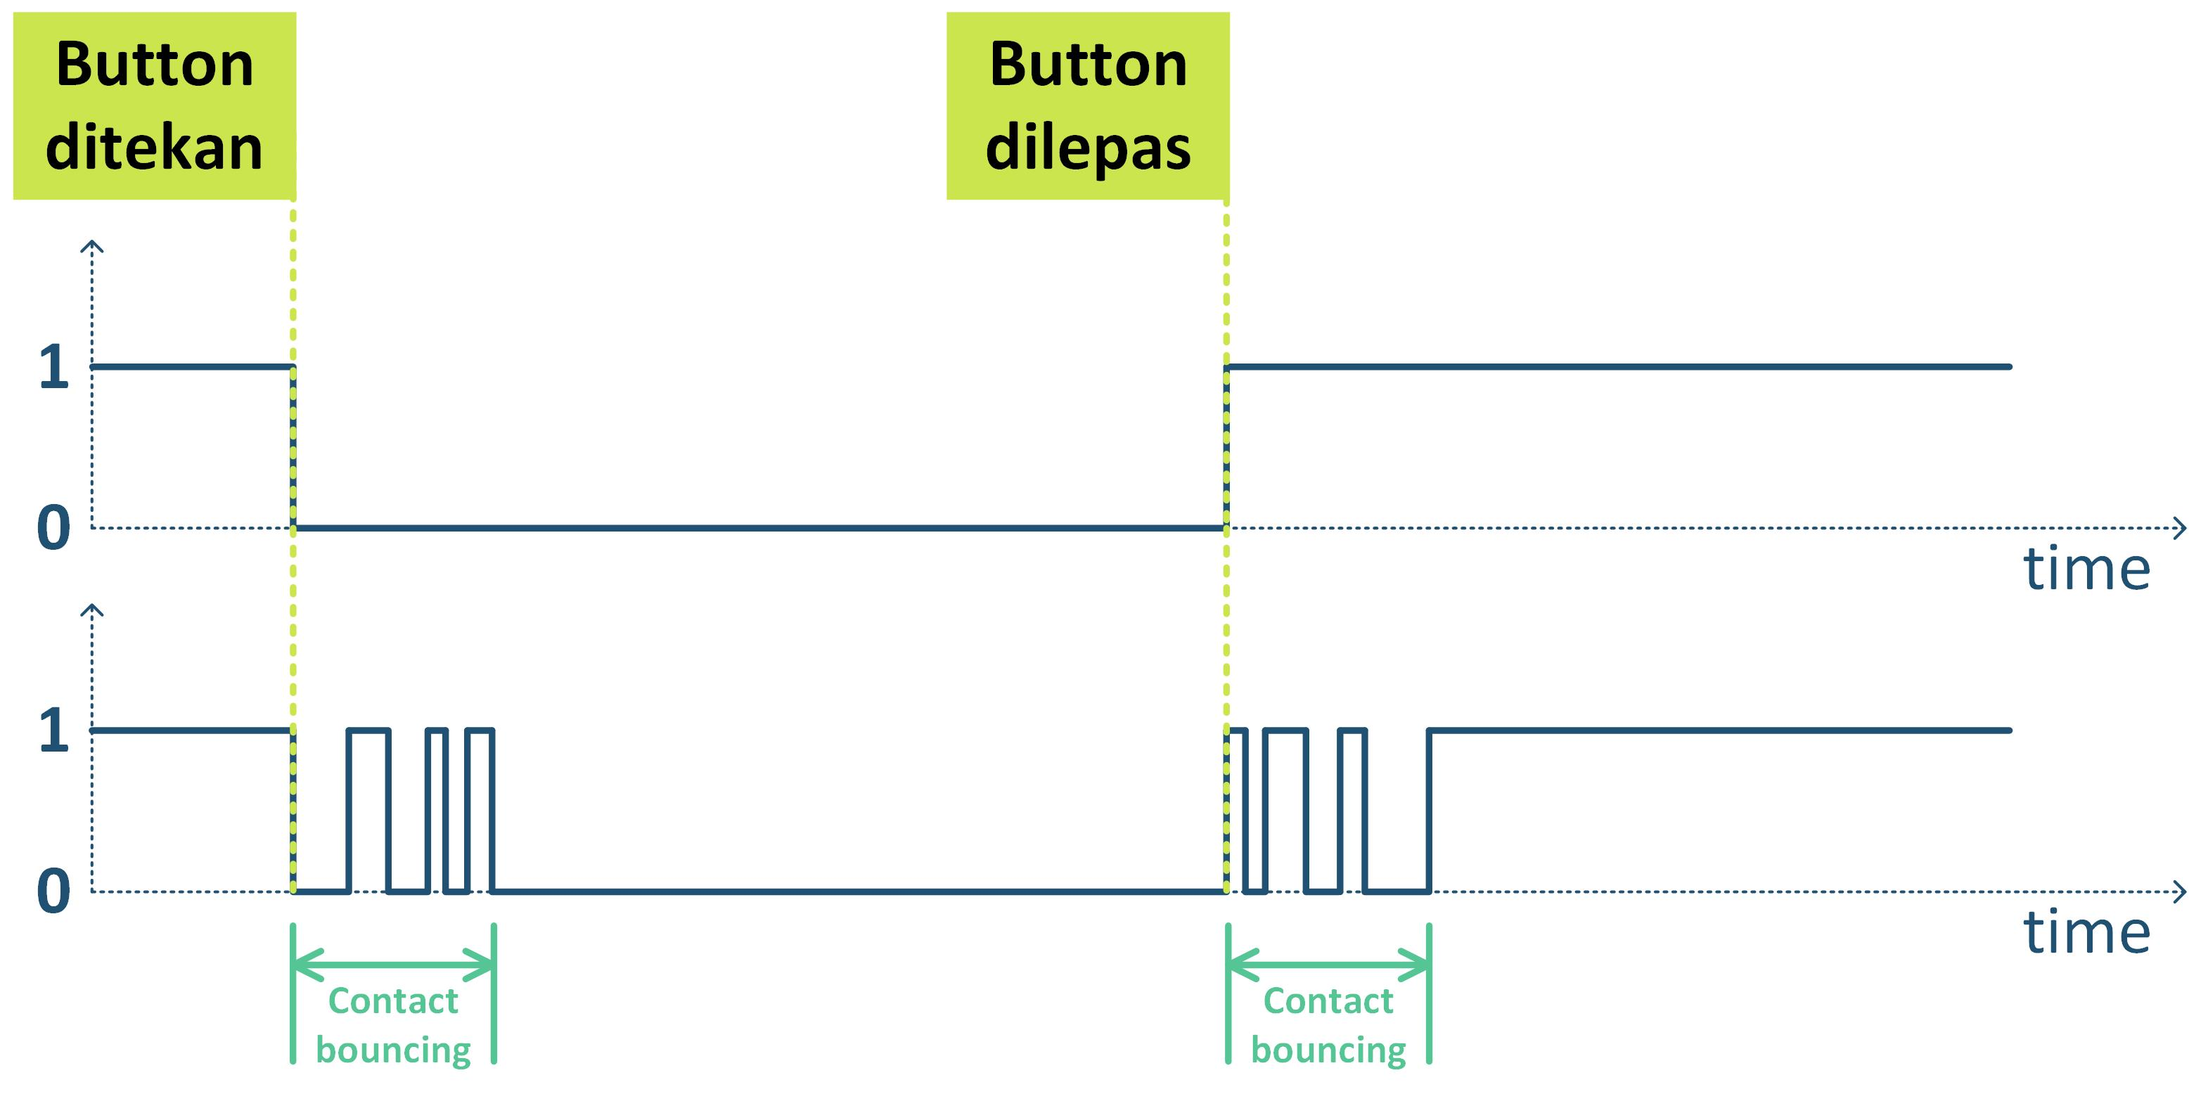
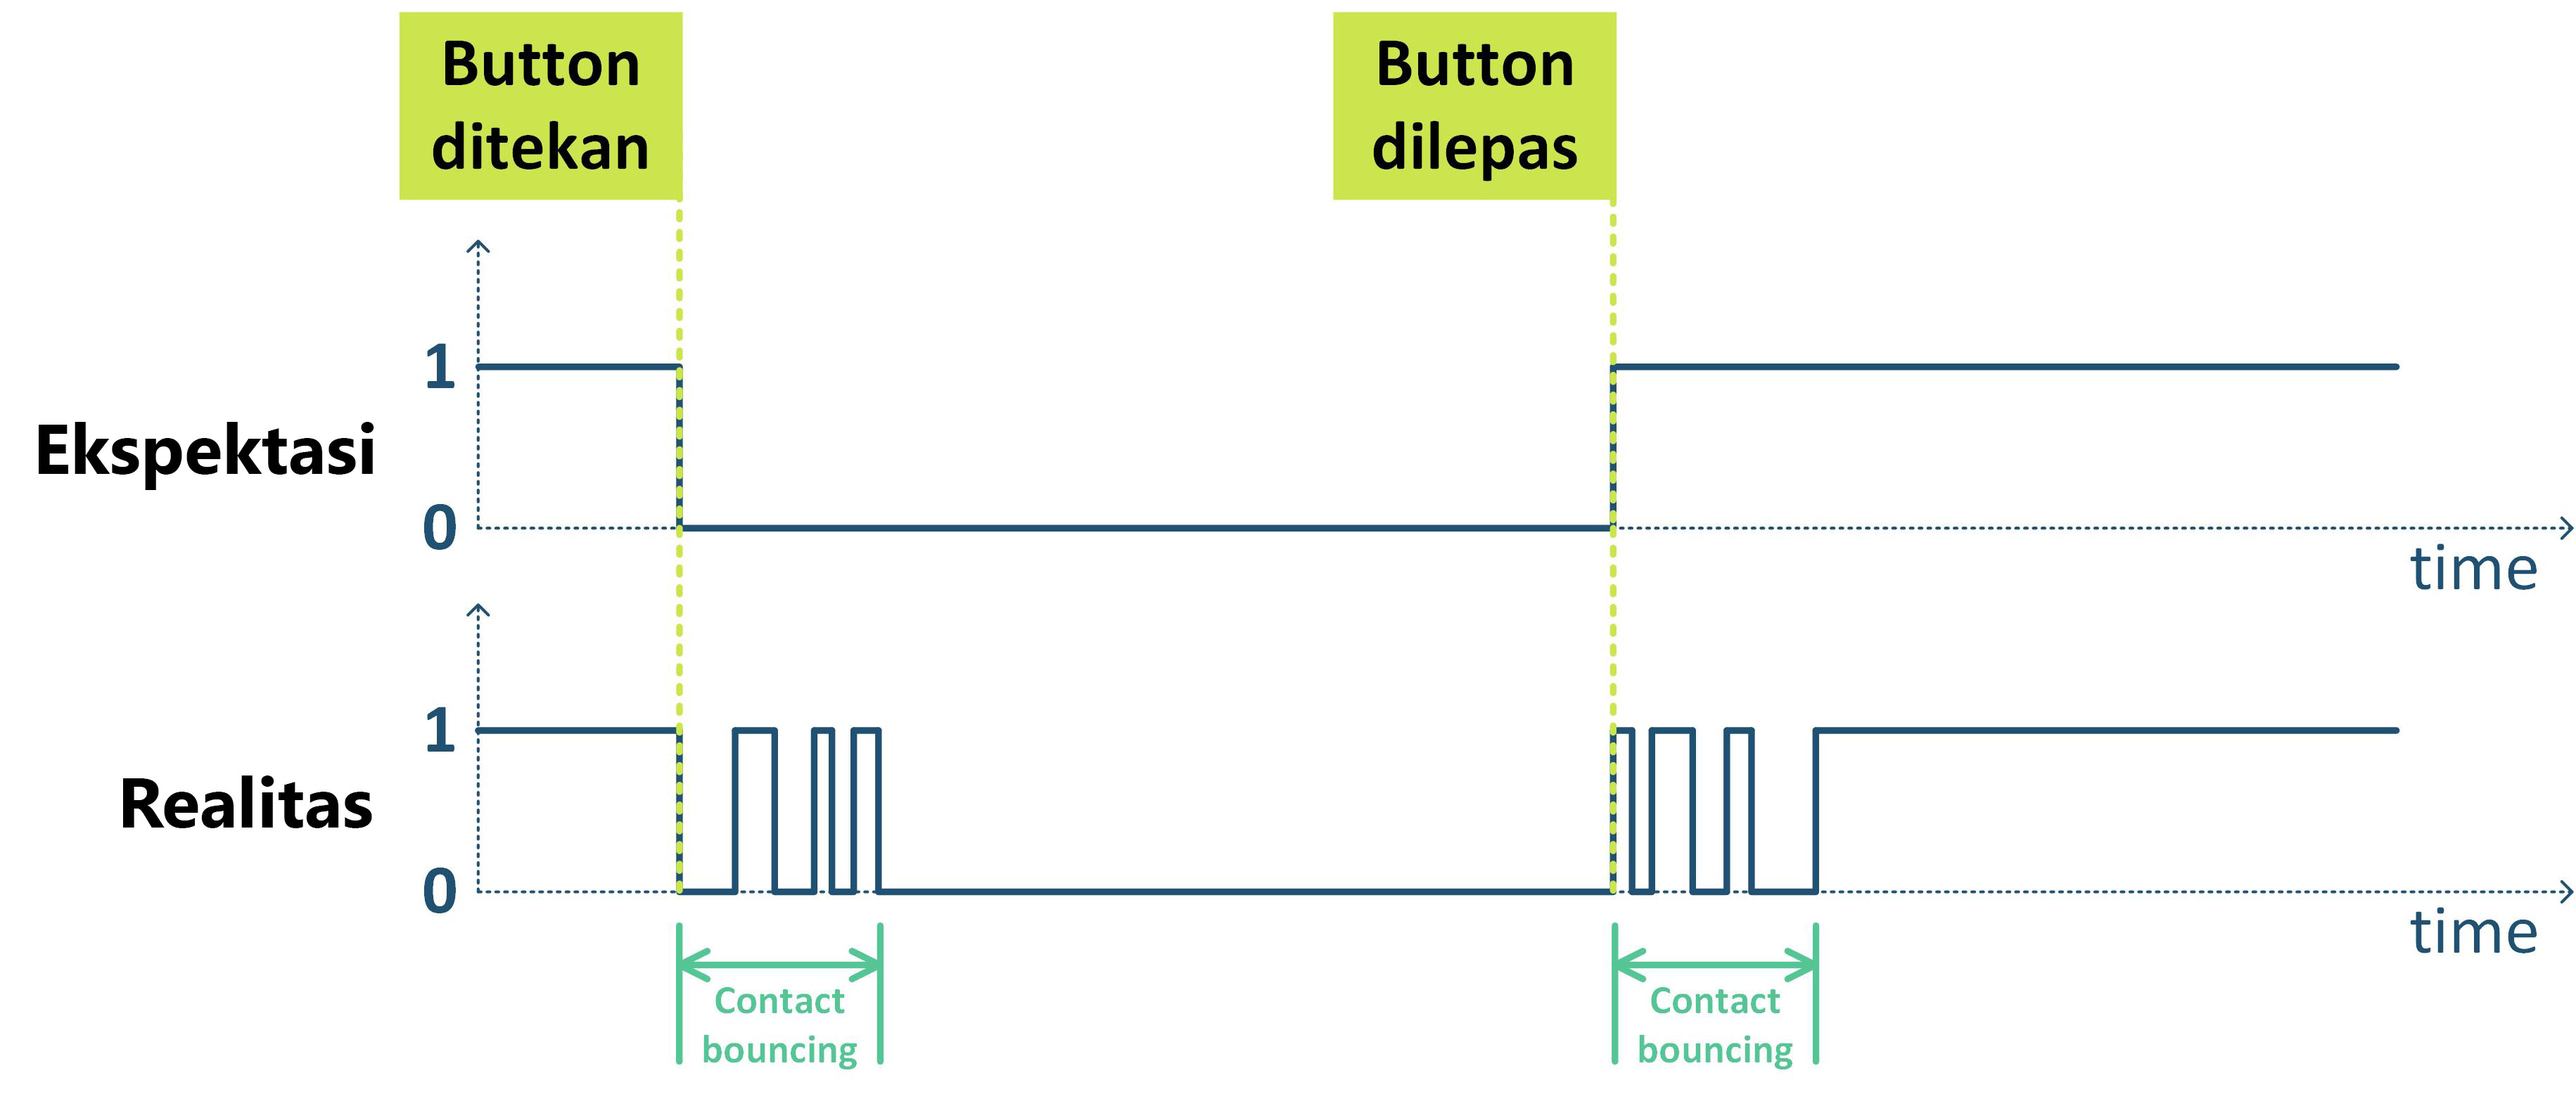
Added debouncing

diff --git a/pemrograman_arduino/debouncing/index.html b/pemrograman_arduino/debouncing/index.html
@@ -1,0 +1,220 @@
+<head>
+    <meta charset="utf-8" lang="en">
+    <link rel="icon" href="../../logo.png">
+    <style class="fallback">
+    body {
+        visibility: hidden;
+        font-family: 'Segoe UI', Tahoma, Geneva, Verdana, sans-serif;
+    }
+    </style>
+</head> 
+<body>
+    **Pembacaan Push Button dengan Button Debouncing**
+    **Instagram: [@klinikarduino](https://www.instagram.com/klinikarduino/)**
+    **by [Erwin Setiawan](https://yohanes-erwin.github.io/)**
+    
+    <center>**[Pemrograman Arduino](../index.html)**</center>
+
+    Apa itu Button Debouncing?
+    ===========================
+    Ketika kita menggunakan komponen push button atau switch mechanical, maka akan ada fenomena yang bernama button bounce.
+    Button bounce terjadi pada kontak fisik dari push button atau switch tersebut.
+    Hal ini terjadi karena kontak fisik dari push button atau switch terbuat dari metal sehingga memiliki elastisitas.
+    
+    Button bounce menyebabkan noise pada sinyal input untuk GPIO seperti pada gambar Figure [fig:button_bouncing].
+    Fenomena ini bisa terjadi selama beberapa micro sampai mili detik sampai nilai button tersebut stabil.
+    Noise ini dapat menyebabkan kesalahan pembacaan oleh GPIO terutama pada aplikasi pembacaan jumlah penekanan button.
+    Satu kali penekanan button oleh user, dapat terbaca berkali-kali oleh mikrokontroler.
+
+    ![Figure [fig:button_bouncing]: Fenomena button bouncing](button_bouncing.jpg width=700px)
+
+    Solusi untuk masalah ini disebut button debouncing.
+    Ada banyak metode debouncing yang bisa digunakan, mulai dari debouncing dengan hardware sampai debouncing dengan software.
+    Pada tutorial ini akan dibahas mengenai debouncing dengan software.
+
+    Metode debouncing dengan software dilakukan dengan menggunakan timer untuk menunggu sampai nilai GPIO stabil, kemudian nilai tersebut yang akan dibaca.
+    Proses debouncing ini digambarkan pada Figure [fig:debouncing].
+
+    ![Figure [fig:debouncing]: Metode debouncing untuk pembacaan button dengan timer](debouncing.jpg width=700px)
+
+    Contoh Program
+    ===========================
+    Pada contoh program ini, kita akan mempelajari dua kasus pembacaan push button.
+    Pembacaan pada program pertama dilakukan tanpa debouncing.
+    Pembacaan pada program kedua dilakukan dengan debouncing.
+
+    Untuk dapat menjalankan contoh program ini diperlukan beberapa komponen:
+    * Development board ESP32
+    * 1 buah push button
+    * 1 buah LED
+    * 1 buah resistor 100Ω
+    * Breadboard
+    * Kabel jumper
+
+    Ilustrasi koneksi dari komponen-komponen ke ESP32 ditampilkan pada Figure [fig:button-debouncing-bb].
+    Pin yang digunakan untuk menghubungkan komponen-komponen ke ESP32 ditampilkan pada Table [tab:wiring].
+    Push button dan LED tersebut menggunakan rangkaian active-low.
+
+    ![Figure [fig:button-debouncing-bb]: Rangkaian breadboard untuk program button debouncing](button-debouncing-bb.jpg width=400px)
+
+
+    Sensor/Aktuator Pin     | ESP32 Pin
+    ------------------------|------------------
+    Push button             | D12
+    LED merah               | D25
+    [Table [tab:wiring]: Koneksi ESP32]
+
+    Program Button Tanpa Debouncing
+    ===========================
+    Pada contoh progam ini, kita akan melakukan pembacaan push button tanpa debouncing.
+    Tujuan dari program ini yaitu setiap satu kali penekanan button, maka LED akan di-invert (nyala jadi mati dan mati jadi nyala).
+
+    Listing [lst:no_debouncing] menampilkan contoh program push button tanpa debouncing.
+    Berikut ini penjelasan cara kerja program tersebut:
+    * Pada **line 2-4**, kita mendefinisikan pin untuk LED dan push button.
+    * Pada **line 6-7**, kita membuat variable untuk menyimpan state dari push button dan LED.
+    * Pada **line 12-18**, kita melakukan inisialisasi GPIO untuk LED dan push button.
+    * Pada **line 24**, kita melakukan pembacaan push button kemudian disimpan pada variable `btn_state`.
+    * Pada **line 27-30**, kita melakukan pengecekan apakah nilai `btn_state` adalah LOW. Jika iya, maka kita akan meng-invert nilai LED.
+    * Pada **line 33**, kita menulis nilai LED dari variable `led_state` ke GPIO LED.
+
+    ~~~~~~~~~~~~~~~~~~~~~~~~~~~~~~~~~~~ C linenumbers
+    // LED pin
+    #define RED_LED_PIN     25
+    // Button pin
+    #define BTNPIN          12
+
+    int btn_state;
+    int led_state = HIGH;
+
+    void setup()
+    {
+      // Konfigurasi GPIO pin sebagai output untuk LED
+      pinMode(RED_LED_PIN, OUTPUT);
+    
+      // Set nilai LED ke kondisi off
+      digitalWrite(RED_LED_PIN, HIGH);
+    
+      // Konfigurasi GPIO pin sebagai input pull-up untuk button
+      pinMode(BTNPIN, INPUT_PULLUP);
+    }
+
+    void loop()
+    {
+      // Read button
+      btn_state = digitalRead(BTNPIN);
+
+      // Toggle LED state
+      if (btn_state == LOW)
+      {
+        led_state = !led_state;
+      }
+    
+      // Write LED state
+      digitalWrite(RED_LED_PIN, led_state);
+    }
+    ~~~~~~~~~~~~~~~~~~~~~~~~~~~~~~~~~~~
+    [Listing [lst:no_debouncing]: Contoh program pembacaan button tanpa debouncing]
+
+    Figure [fig:button-without-debouncing] menampilkan hasil pembacaan button tanpa debouncing.
+    Dapat kita lihat bahwa setiap penekanan button, LED tidak selalu ter-invert.
+    Ada kondisi dimana untuk meng-invert perlu dilakukan penekanan button sebanyak dua kali,
+    padahal yang kita inginkan yaitu hanya satu kali.
+    Hal tersebut bisa terjadi karena noise bouncing yang menyebabkan penekanan terbaca beberapa kali.
+
+    ![Figure [fig:button-without-debouncing]: Pembacaan button tanpa debouncing](button-without-debouncing.gif width=640px)
+
+    Program Button Dengan Debouncing
+    ===========================
+    Pada contoh progam ini, kita akan melakukan pembacaan push button dengan debouncing.
+    Progam ini akan mengatasi masalah button bouncing yang terjadi pada program sebelumnya.
+
+    Listing [lst:debouncing] menampilkan contoh program push button dengan debouncing.
+    Berikut ini penjelasan cara kerja program tersebut:
+    * Pada **line 2-4**, kita mendefinisikan pin untuk LED dan push button.
+    * Pada **line 6-8**, kita membuat variable untuk menyimpan state dari push button dan LED.
+    * Pada **line 10-11**, kita membuat variable untuk menyimpan nilai millis timer debouncing dan nilai delay debouncing.
+    * Pada **line 16-22**, kita melakukan inisialisasi GPIO untuk LED dan push button.
+    * Pada **line 28**, kita melakukan pembacaan push button kemudian disimpan pada variable lokal bernama `reading`. Nilai variable ini menyimpan pembacaan button secara real-time dan tanpa debouncing.
+    * Pada **line 31-35**, kita melakukan perbandingan antara nilai button yang terbaca saat ini (`reading`) dan nilai button yang terbaca pada iterasi loop sebelumnya (`last_button_state`). Jika nilainya berbeda, maka ini berarti nilai GPIO masih berubah-ubah atau belum stabil (masih berada dalam tahap noise bounce). Jika masih dalam tahap bounce, maka timer akan selalu di-reset (di-update dengan nilai millis terbaru).
+    * Pada **line 38-51**, kondisi `if` tersebut akan terpenuhi ketika noise bounce sudah terlewati dan timer debouncing sudah memenuhi waktu yang ditetapkan di variable `debounce_delay`. Jika kondisi ini terpenuhi, maka ini dianggap terjadi penekanan button yang valid. Selanjutnya kita melakukan update state button pada variable `button_state`, kemudian jika state bernilai LOW, maka akan dilakukan invert terhadap state LED.
+    * Pada **line 54**, kita menulis nilai LED dari variable `led_state` ke GPIO LED.
+    * Pada **line 57**, kita menyimpan nilai pembacaan button saat ini untuk iterasi loop berikutnya.
+
+    ~~~~~~~~~~~~~~~~~~~~~~~~~~~~~~~~~~~ C linenumbers
+    // LED pin
+    #define RED_LED_PIN     25
+    // Button pin
+    #define BTNPIN          12
+    
+    int led_state = LOW;
+    int button_state = HIGH;
+    int last_button_state = HIGH;
+    
+    unsigned long last_debounce_time = 0;
+    unsigned long debounce_delay = 50;
+    
+    void setup()
+    {
+      // Konfigurasi GPIO pin sebagai output untuk LED
+      pinMode(RED_LED_PIN, OUTPUT);
+      
+      // Set nilai LED ke kondisi off
+      digitalWrite(RED_LED_PIN, HIGH);
+      
+      // Konfigurasi GPIO pin sebagai input pull-up untuk button
+      pinMode(BTNPIN, INPUT_PULLUP);
+    }
+    
+    void loop()
+    {
+      // Membaca state button kemudian disimpan pada variable
+      int reading = digitalRead(BTNPIN);
+    
+      // Jika nilai button berubah, karena noise atau penekanan
+      if (reading != last_button_state)
+      {
+        // Simpan nilai milis
+        last_debounce_time = millis();
+      }
+    
+      // Jika sudah melebihi waktu untuk menunggu debouncing
+      if ((millis() - last_debounce_time) > debounce_delay)
+      {
+        // Jika state button berubah
+        if (reading != button_state)
+        {
+          button_state = reading;
+    
+          // Toggle LED hanya jika state button-nya LOW (active-low circuit)
+          if (button_state == LOW)
+          {
+            led_state = !led_state;
+          }
+        }
+      }
+    
+      // Set nilai LED state ke GPIO
+      digitalWrite(RED_LED_PIN, led_state);
+    
+      // Update variable reading untuk iterasi loop berikutnya
+      last_button_state = reading;
+    }    
+    ~~~~~~~~~~~~~~~~~~~~~~~~~~~~~~~~~~~
+    [Listing [lst:debouncing]: Contoh program pembacaan button dengan debouncing]
+
+    Figure [fig:button-debouncing] menampilkan hasil pembacaan button dengan debouncing.
+    Pada hasil tersebut dapat kita lihat bahwa setiap satu kali penekanan button, LED selalu ter-invert.
+    Kondisi yang terjadi pada program sebelumnya tanpa debouncing sudah tidak terjadi lagi.
+
+    ![Figure [fig:button-debouncing]: Pembacaan button dengan debouncing](button-debouncing.gif width=640px)
+
+    Repository Kode Program
+    ===========================
+    Kode program untuk pembacaan button tanpa debouncing dan dengan debouncing dapat didapatkan di repository ini: [button-without-debouncing](https://github.com/klinikarduino/esp32/tree/main/button-without-debouncing) dan [button-debouncing](https://github.com/klinikarduino/esp32/tree/main/button-debouncing).
+    
+    <link href='https://fonts.googleapis.com/css?family=Roboto:400,300,100,100italic,300italic,400italic,700' rel='stylesheet' type='text/css'>
+    <script>window.markdeepOptions = {'tocStyle':'long'};</script>
+    <script src="../../markdeep.min.js"></script>
+    <script>window.alreadyProcessedMarkdeep||(document.body.style.visibility="visible")</script>
+</body>

diff --git a/pemrograman_arduino/index.html b/pemrograman_arduino/index.html
@@ -33,7 +33,7 @@
 
     Bonus:
     * [Analisis Rangkaian Resistor Pull-Up](pull_up/index.html)
-    * Pembacaan Push Button dengan Button Debouncing
+    * [Pembacaan Push Button dengan Button Debouncing](debouncing/index.html)
     * Pengontrolan LED Melalui Komunikasi Serial
     * Menampilkan Nilai Pembacaan Sensor ke OLED Display
     * Project Dasar Arduino ESP32
